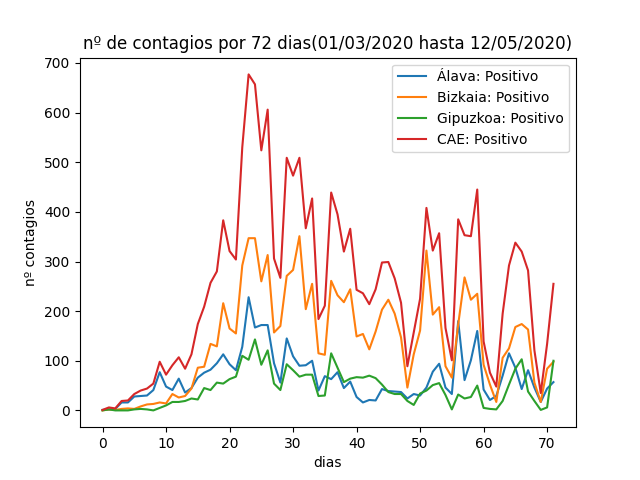
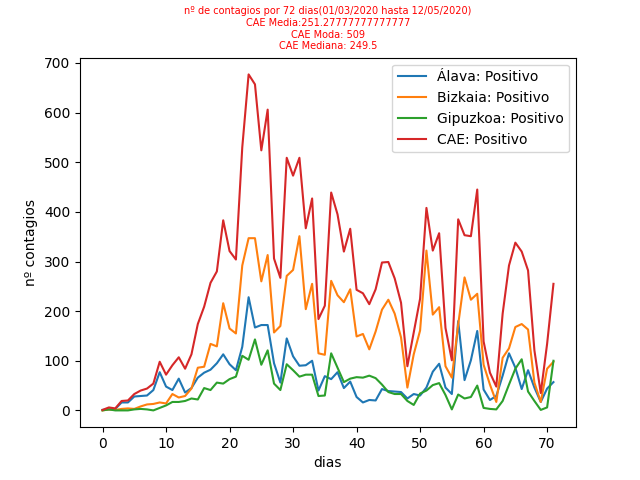
Add files via upload

Changed region(s): [[0.125, 0.0, 0.9062, 0.125]]

diff --git a/tarea_26/tarea_26_1.py b/tarea_26/tarea_26_1.py
@@ -2,11 +2,13 @@ import numpy as np
 import matplotlib.pyplot as plt
 import pandas as pd
 import seaborn as sn
+import statistics as stat
 data=pd.read_csv('26_1.csv',encoding="ISO-8859-1", header=0, sep = ';')
 data_copy=data.copy
 registro=len(data)
 print(registro)
 print(data.head(registro))
+print(data.describe())
 print(pd.to_datetime(data["Baliozkotze-data / Fecha Validacion"],dayfirst='True').dt.strftime("%y%m%d"))
 dias=(data["Baliozkotze-data / Fecha Validacion"].astype('datetime64[D]').dt.dayofyear)
 #plt.rcParams["figure.figsize"]=(16,12)
@@ -22,9 +24,7 @@ x1 = np.arange(0, registro)
 plt.plot(x1, y1,label='Bizkaia: Positivo')
 plt.xlabel('dias')
 plt.ylabel('nº contagios')
-plt.title('nº de contagios por '+str(registro)+' dias(01/03/2020 hasta 12/05/2020)')
-
-
+plt.title('nº de contagios por '+str(registro)+' dias(01/03/2020 hasta 12/05/2020)\n'+'CAE Media:'+str(np.mean(data["EAE: Positiboa / CAE: Positivo "]))+"\n"+'CAE Moda: '+str(stat.mode(data["EAE: Positiboa / CAE: Positivo "]))+"\n"+'CAE Mediana: '+str(stat.median(data["EAE: Positiboa / CAE: Positivo "])),fontsize = 7,color='red')
 x2=data["Baliozkotze-data / Fecha Validacion"]
 y2=data["Gipuzkoa: Positiboa / Gipuzkoa: Positivo "]
 x2 = np.arange(0, registro)
@@ -33,7 +33,8 @@ plt.plot(x2, y2,label='Gipuzkoa: Positivo')
 xt=data["Baliozkotze-data / Fecha Validacion"]
 yt=data["EAE: Positiboa / CAE: Positivo "]
 xt = np.arange(0, registro)
-plt.plot(xt, yt,label='CAE: Positivo ')
+plt.plot(xt, yt,label='CAE: Positivo')
+
 plt.legend()
 plt.savefig('comunidades_autonomas_covid.png')
 plt.show()

diff --git a/tarea_26/tarea_26_2.py b/tarea_26/tarea_26_2.py
@@ -5,4 +5,5 @@ import seaborn as sn
 data=pd.read_csv('26_2.csv',encoding="ISO-8859-1", header=0, sep = ';')
 registro=len(data)
 print(registro)
-print(data.head(registro))
+data_filtrado=data.fillna(0)
+print(data_filtrado.head(registro))
